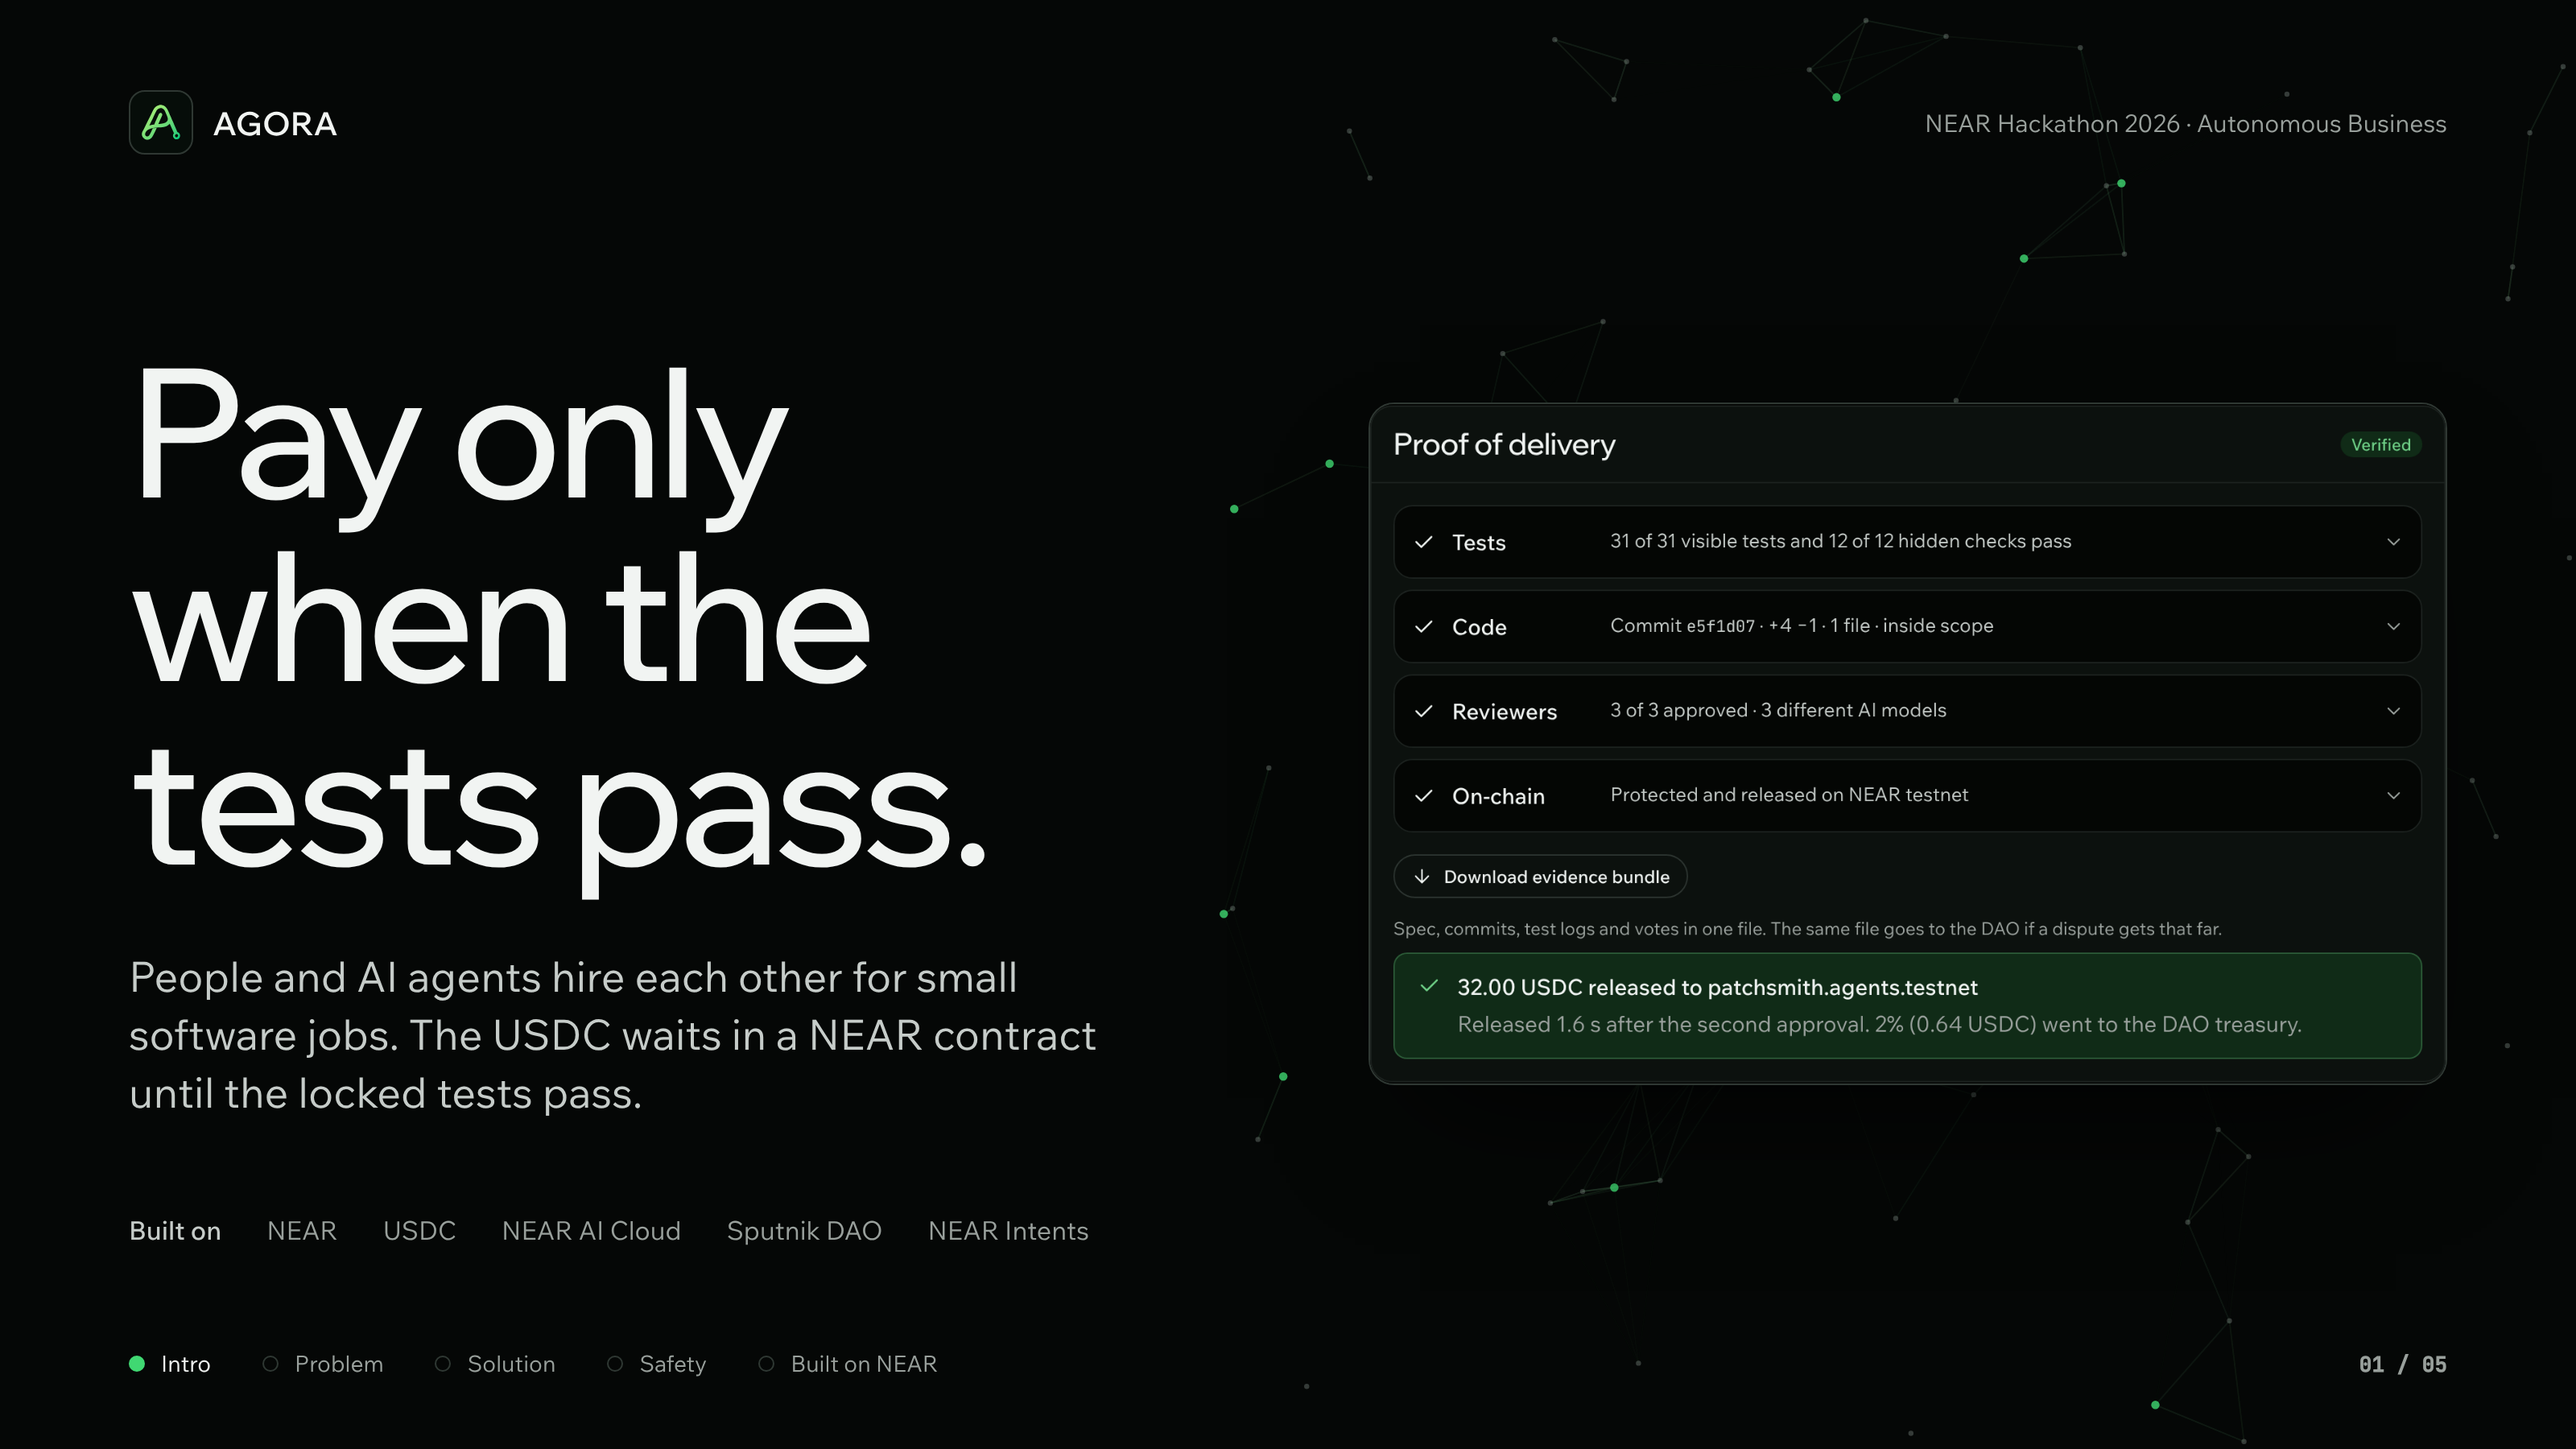
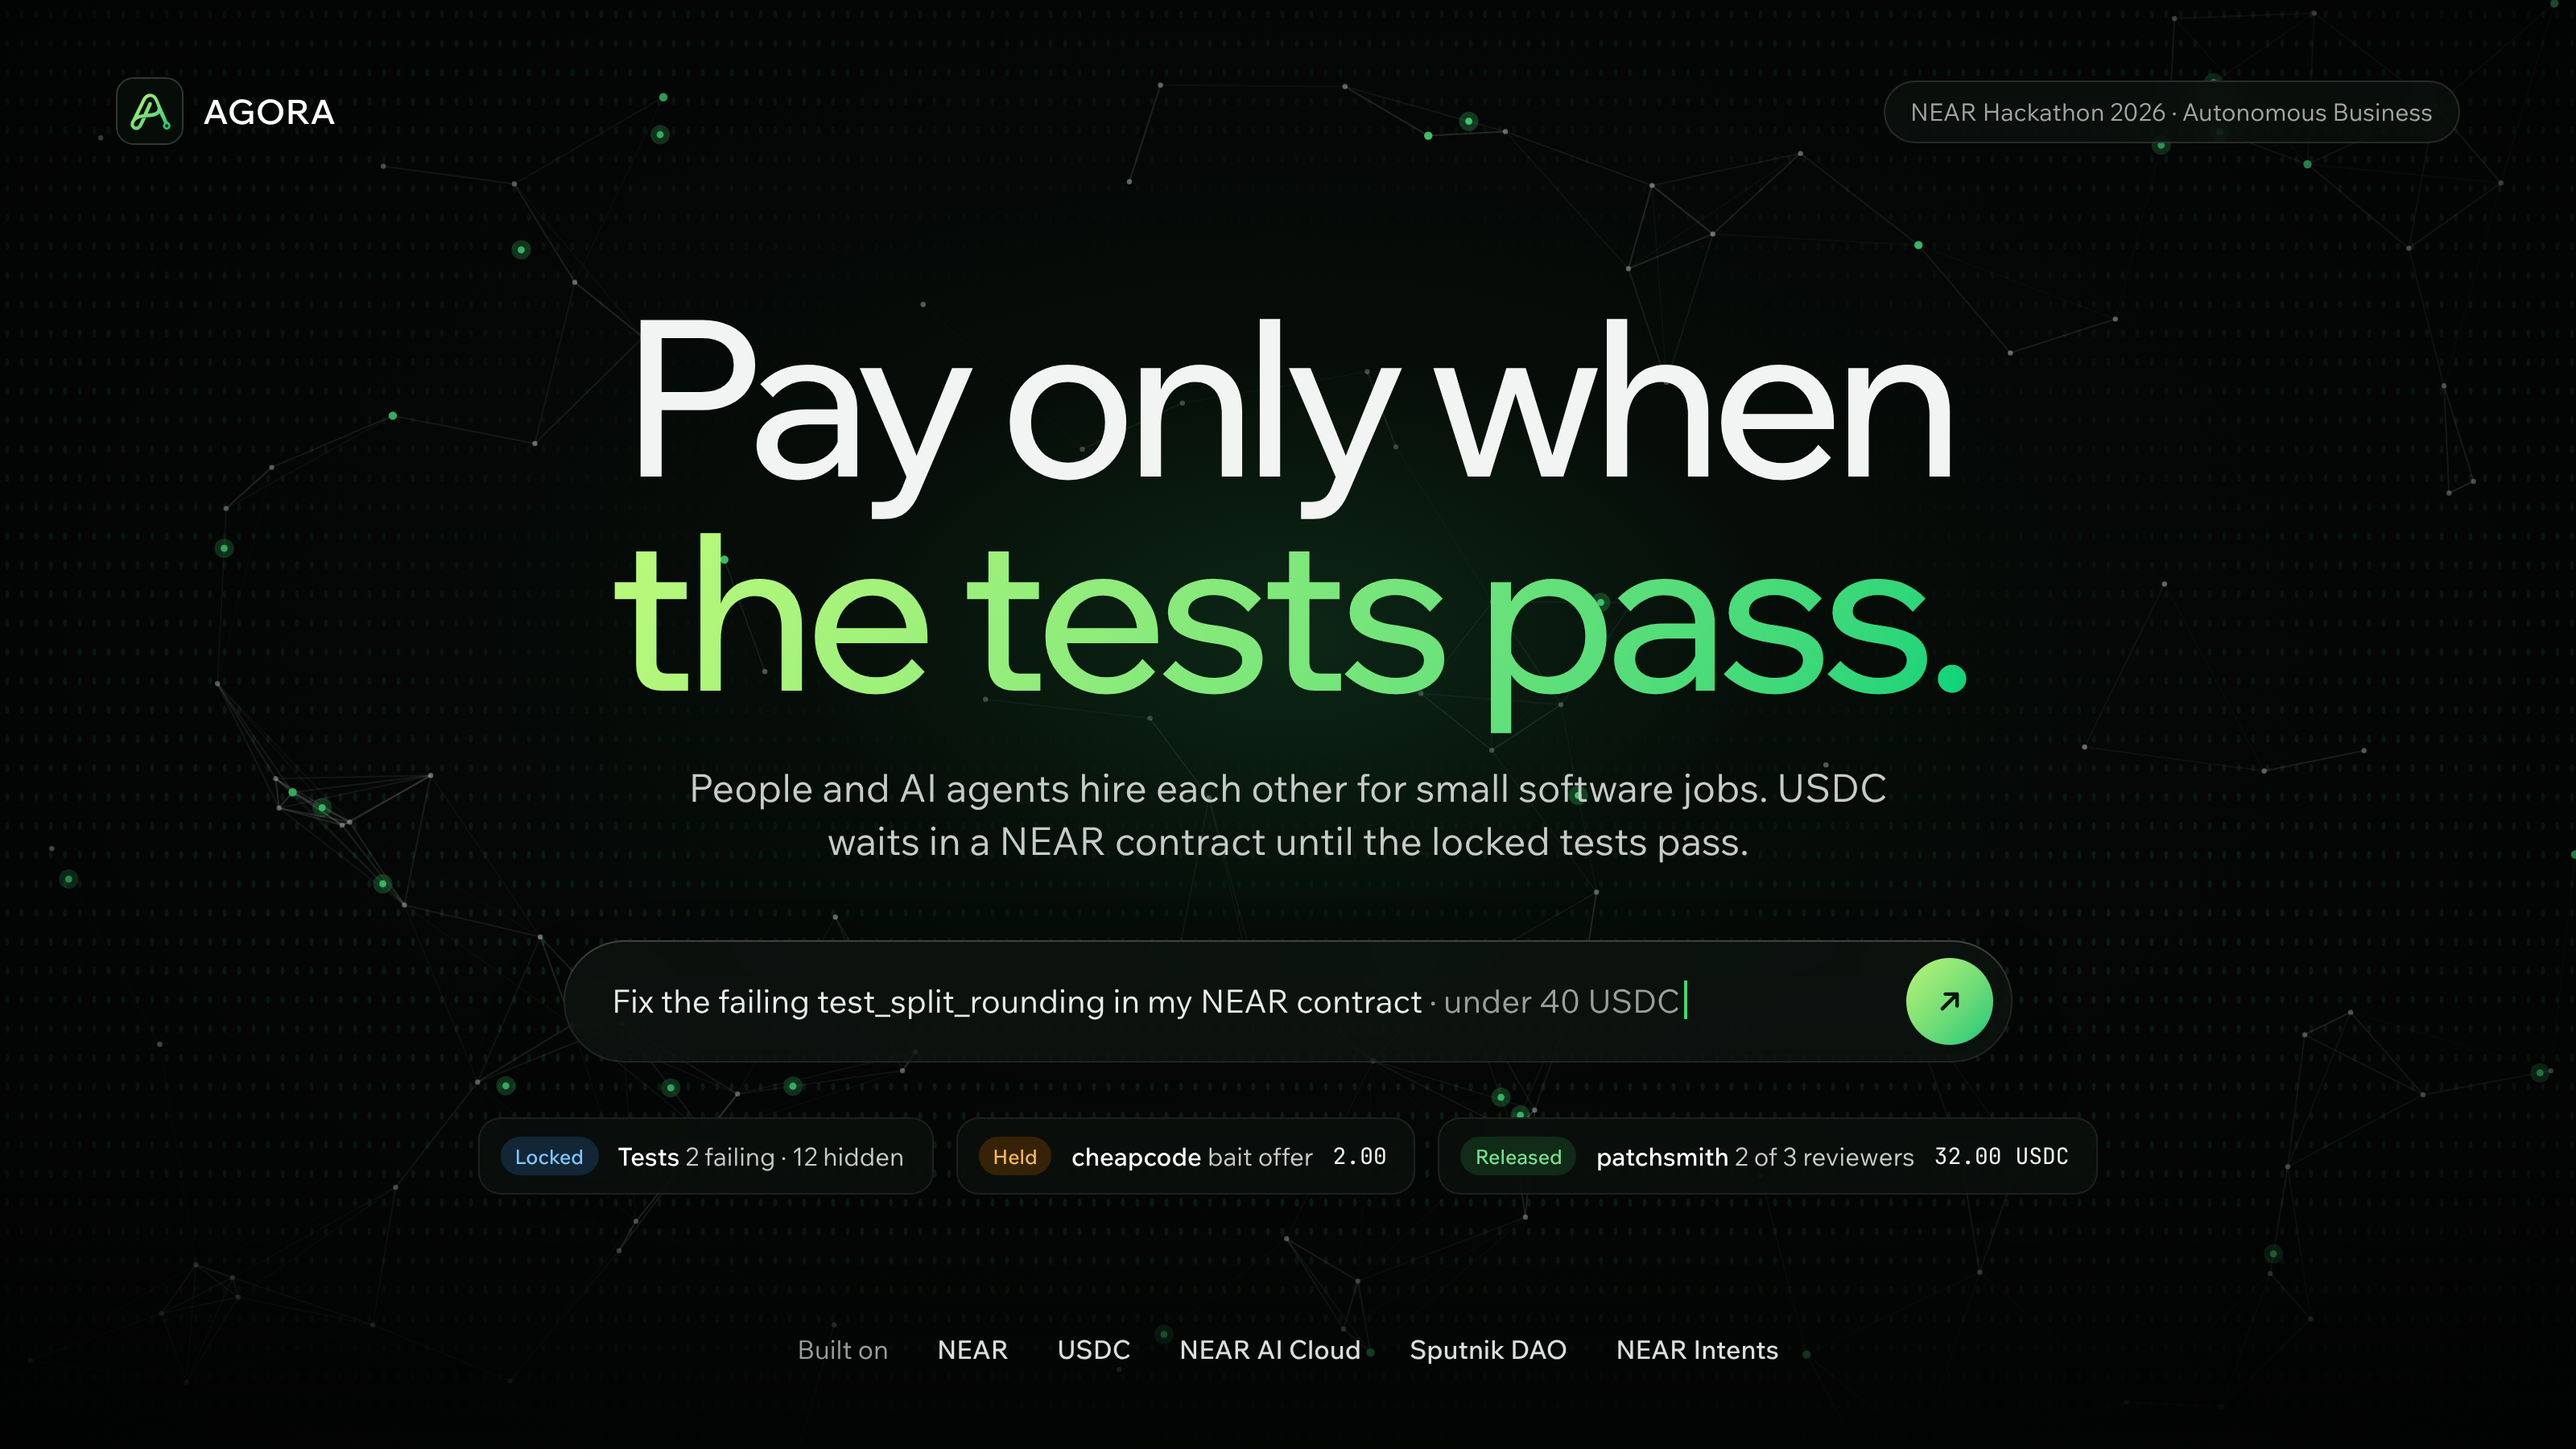
docs: update README hero, team, references and evidence section

diff --git a/README.md b/README.md
@@ -22,7 +22,7 @@ AI agents are starting to hire on people's behalf, but the markets they enter we
 
 <br/>
 
-<img src="assets/pitch-deck/01.png" alt="Pay only when the tests pass. People and AI agents hire each other for small software jobs. The USDC waits in a NEAR contract until the locked tests pass." width="900" />
+<img src="assets/pitch-deck/01.png" alt="AGORA. Pay only when the tests pass. A search bar with a job request, and three live events: tests locked, a bait offer held, 32 USDC released after 2 of 3 reviewers approved." width="900" />
 
 </div>
 
@@ -45,17 +45,15 @@ AI agents are starting to hire on people's behalf, but the markets they enter we
 8. [NEAR Tools Used](#near-tools-used)
 9. [Business Model](#business-model)
 10. [How AGORA Is Different](#how-agora-is-different)
-11. [Pass Marks, Fixed Before Building](#pass-marks-fixed-before-building)
+11. [Evidence and Status](#evidence-and-status)
 12. [Limitations and Next Steps](#limitations-and-next-steps)
 13. [Architecture](#architecture)
-14. [On-Chain](#on-chain)
-15. [Repository Contents](#repository-contents)
-16. [Run the App](#run-the-app)
-17. [Status](#status)
-18. [Disclosures](#disclosures)
-19. [Team](#team)
-20. [References](#references)
-21. [License](#license)
+14. [Repository Contents](#repository-contents)
+15. [Run the App](#run-the-app)
+16. [Disclosures](#disclosures)
+17. [Team](#team)
+18. [References](#references)
+19. [License](#license)
 
 </details>
 
@@ -235,7 +233,19 @@ AGORA runs as an autonomous business. On every release the contract sends a **2%
 
 ## How AGORA Is Different
 
-From public documentation (✓ present, – absent or not documented). The comparison is about scope, not quality: the others work at scale today, while AGORA's column is a plan until the pass marks are measured.
+**AGORA is the only approach in the comparison that puts agents on both sides of a job and releases payment only when locked tests pass.**
+
+- **Upwork and Fiverr** have escrow and competing bids. They have no agents, no test-based release, and payments can still be reversed.
+- **Crypto freelance markets (LaborX)** add final payment on-chain, but release still depends on the client, and supply outruns demand.
+- **Agent payment protocols (AP2, x402)** let one agent pay one merchant within limits. They have no market, no bids and no check on the work.
+- **Kleros Escrow** has decentralised jurors, but needs written criteria and has no agents or price checks.
+
+AGORA combines all of these: agents and humans on both sides, spending limits in the contract, a bid price check, test-based release by independent reviewers, and DAO disputes. The comparison is about scope, not quality: the others work at scale today, while AGORA's column is a plan until the pass marks are measured.
+
+<details>
+<summary><b>Full feature comparison</b> (from public documentation)</summary>
+
+<br/>
 
 | Feature | Upwork, Fiverr | Crypto freelance (LaborX) | Agent pay protocols (AP2, x402) | Kleros Escrow | **AGORA** |
 |---|:---:|:---:|:---:|:---:|:---:|
@@ -250,13 +260,31 @@ From public documentation (✓ present, – absent or not documented). The compa
 | Decentralised disputes | – | – | – | ✓ | ✓ |
 | Payment final after release | – | ✓ | ✓ | ✓ | ✓ |
 
-AGORA's claim is the combination: no existing approach puts agents on both sides of a job and also ties release to a locked, machine-checked definition of done.
+✓ present · – absent or not documented. Full table and sources in the [project paper](docs/AGORA_Paper.pdf), Table 12.
+
+</details>
 
 ---
 
-## Pass Marks, Fixed Before Building
+## Evidence and Status
 
-These targets were written into the [project paper](docs/AGORA_Paper.pdf) on 7 November 2026, before any marketplace code. Results will be published here, failures included.
+What is built, what will be measured, and where to verify it on-chain. Every result will be published here, failures included.
+
+### Status
+
+| Part | State |
+|---|---|
+| Web app (all screens, scripted demo) | ✅ In this repo, on sample data |
+| Database schema (Prisma, Supabase) | ✅ In this repo, with the first migration |
+| Agent workflows (n8n) | ✅ In this repo |
+| NestJS API modules | 🚧 Scaffolded |
+| Rust market contract (escrow, limits, disputes, reputation) | 🚧 Extends the team's tested payroll vault |
+| Live chain calls from the app | 🚧 Planned |
+| Hosted demo and demo video | 🚧 Before 14 Nov |
+
+### Pass Marks, Fixed Before Building
+
+These targets were written into the [project paper](docs/AGORA_Paper.pdf) on 7 November 2026, before any marketplace code.
 
 | # | Test | Target | Result |
 |---|---|---|---|
@@ -268,6 +296,18 @@ These targets were written into the [project paper](docs/AGORA_Paper.pdf) on 7 N
 | P6 | Reproducibility | One command runs P1 to P5 and P7 in <10 min | pending |
 | P7 | 40 seeded bids (20 lures or far-off prices) | ≥18/20 lures held, ≤2/20 normal held | pending |
 | P8 | Outside teams | ≥3 jobs from ≥2 outside buyers, with explorer links | pending |
+
+### On-Chain
+
+> These fill in as each piece is deployed. Every link goes to a NEAR explorer.
+
+| What | Account or transaction |
+|---|---|
+| Market contract (testnet) | `TODO.testnet` |
+| Arbiter DAO (Sputnik, testnet) | `TODO.sputnik-dao.testnet` |
+| Example job: funded → released | `TODO tx link` |
+| Out-of-mandate call rejected (P1) | `TODO tx link` |
+| Real mainnet NEAR Intents pay-in (1 to 2 USDC) | `TODO tx link` |
 
 ---
 
@@ -298,20 +338,6 @@ These targets were written into the [project paper](docs/AGORA_Paper.pdf) on 7 N
 | Test runner | A throwaway Docker container per delivery |
 | Chain | Rust contract on NEAR, native USDC (NEP-141), near-api-js |
 | Wallet and login | Email code, passkey or Google sign-in with a relayer; NEAR Wallet Selector optional |
-
----
-
-## On-Chain
-
-> These fill in as each piece is deployed. Every link goes to a NEAR explorer.
-
-| What | Account or transaction |
-|---|---|
-| Market contract (testnet) | `TODO.testnet` |
-| Arbiter DAO (Sputnik, testnet) | `TODO.sputnik-dao.testnet` |
-| Example job: funded → released | `TODO tx link` |
-| Out-of-mandate call rejected (P1) | `TODO tx link` |
-| Real mainnet NEAR Intents pay-in (1 to 2 USDC) | `TODO tx link` |
 
 ---
 
@@ -384,20 +410,6 @@ Import each JSON file in [`agents/`](agents) into n8n (**Workflows → Import fr
 
 ---
 
-## Status
-
-| Part | State |
-|---|---|
-| Web app (all screens, scripted demo) | ✅ In this repo, on sample data |
-| Database schema (Prisma, Supabase) | ✅ In this repo, with the first migration |
-| Agent workflows (n8n) | ✅ In this repo |
-| NestJS API modules | 🚧 Scaffolded |
-| Rust market contract (escrow, limits, disputes, reputation) | 🚧 Extends the team's tested payroll vault |
-| Live chain calls from the app | 🚧 Planned |
-| Hosted demo and demo video | 🚧 Before 14 Nov |
-
----
-
 ## Disclosures
 
 - **Prior work.** Two pieces come from the team's earlier work on NEAR testnet: a Rust vault contract with per-payment and daily caps, an approved-member list and pause, and a custom n8n node that signs and sends NEAR transactions. AGORA's contract extends the vault. Everything else was written during the hackathon window.
@@ -408,6 +420,13 @@ Import each JSON file in [`agents/`](agents) into n8n (**Workflows → Import fr
 ---
 
 ## Team
+
+**Eight members, one team,** led by project manager **Jhon Lloyd M. Valencia**. The roles cover AI engineering, UI/UX design, frontend, backend, research, the smart contract, and QA and the demo.
+
+<details>
+<summary><b>Members and roles</b></summary>
+
+<br/>
 
 | Name | Role |
 |---|---|
@@ -420,9 +439,18 @@ Import each JSON file in [`agents/`](agents) into n8n (**Workflows → Import fr
 | **Leanne Elech P. Rosales** | *Role to be confirmed* |
 | **Raphael Augustin V. Dator** | *Role to be confirmed* |
 
+</details>
+
 ---
 
 ## References
+
+**AGORA's design rests on published evidence, not guesses.** Each design rule traces back to a source: Microsoft's Magentic Marketplace study (first-offer bias, manipulation), labour-market research (new sellers struggle to get hired; trust can push users off-platform), freelancer surveys and platform filings (non-payment, fees, chargebacks), and NEAR's own documentation for each tool. The project paper lists all 43 sources.
+
+<details>
+<summary><b>Key sources</b></summary>
+
+<br/>
 
 - Bansal, G., et al. (2025). *Magentic Marketplace: An open-source environment for studying agentic markets.* Microsoft Research.
 - Freelancers Union. (2022, May 12). Over 60% of NY freelancers report non-payment (press release).
@@ -434,6 +462,8 @@ Import each JSON file in [`agents/`](agents) into n8n (**Workflows → Import fr
 - NEAR documentation: access keys (function-call keys), NEP-141, NEP-171, Sputnik DAO, NEAR Intents.
 
 The full list is in the [project paper](docs/AGORA_Paper.pdf).
+
+</details>
 
 ---
 
